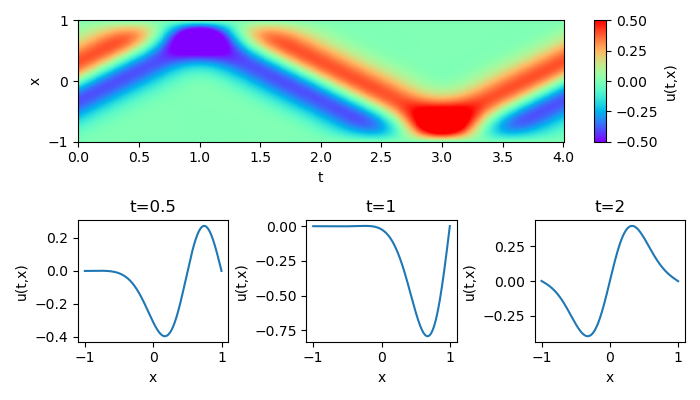
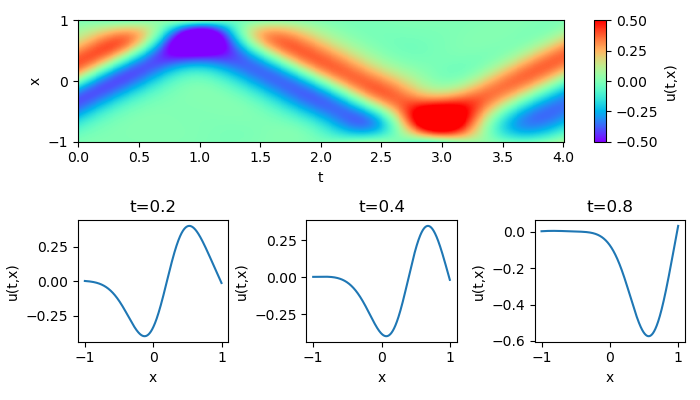
sd=0.5

diff --git a/main.py b/main.py
@@ -9,7 +9,7 @@ from torchsummary import summary
 
 device = 'cuda' if torch.cuda.is_available() else 'cpu'
 
-def u0(t, x, c=1, k=2, sd=0.3):
+def u0(t, x, c=1, k=2, sd=0.5):
     """
     Initial wave form.
 
@@ -109,7 +109,7 @@ if __name__ == '__main__':
     cbar.set_label('u(t,x)')
     cbar.mappable.set_clim(vmin, vmax)
     # plot u(t=const, x) cross-sections
-    t_cross_sections = [0.5, 1, 2]
+    t_cross_sections = [0.2, 0.4, 0.8]
     for i, t_cs in enumerate(t_cross_sections):
         plt.subplot(gs[1, i])
         tx = np.stack([np.full(t_flat.shape, t_cs), x_flat], axis=-1)

diff --git a/pinn.py b/pinn.py
@@ -29,8 +29,8 @@ class PINN:
         self.optimizer = torch.optim.LBFGS(
             network.parameters(), 
             lr=1.0, 
-            max_iter=50000, 
-            max_eval=50000, 
+            max_iter=15000, 
+            max_eval=15000, 
             history_size=50,
             tolerance_grad=1e-5, 
             tolerance_change=1.0 * np.finfo(float).eps,
